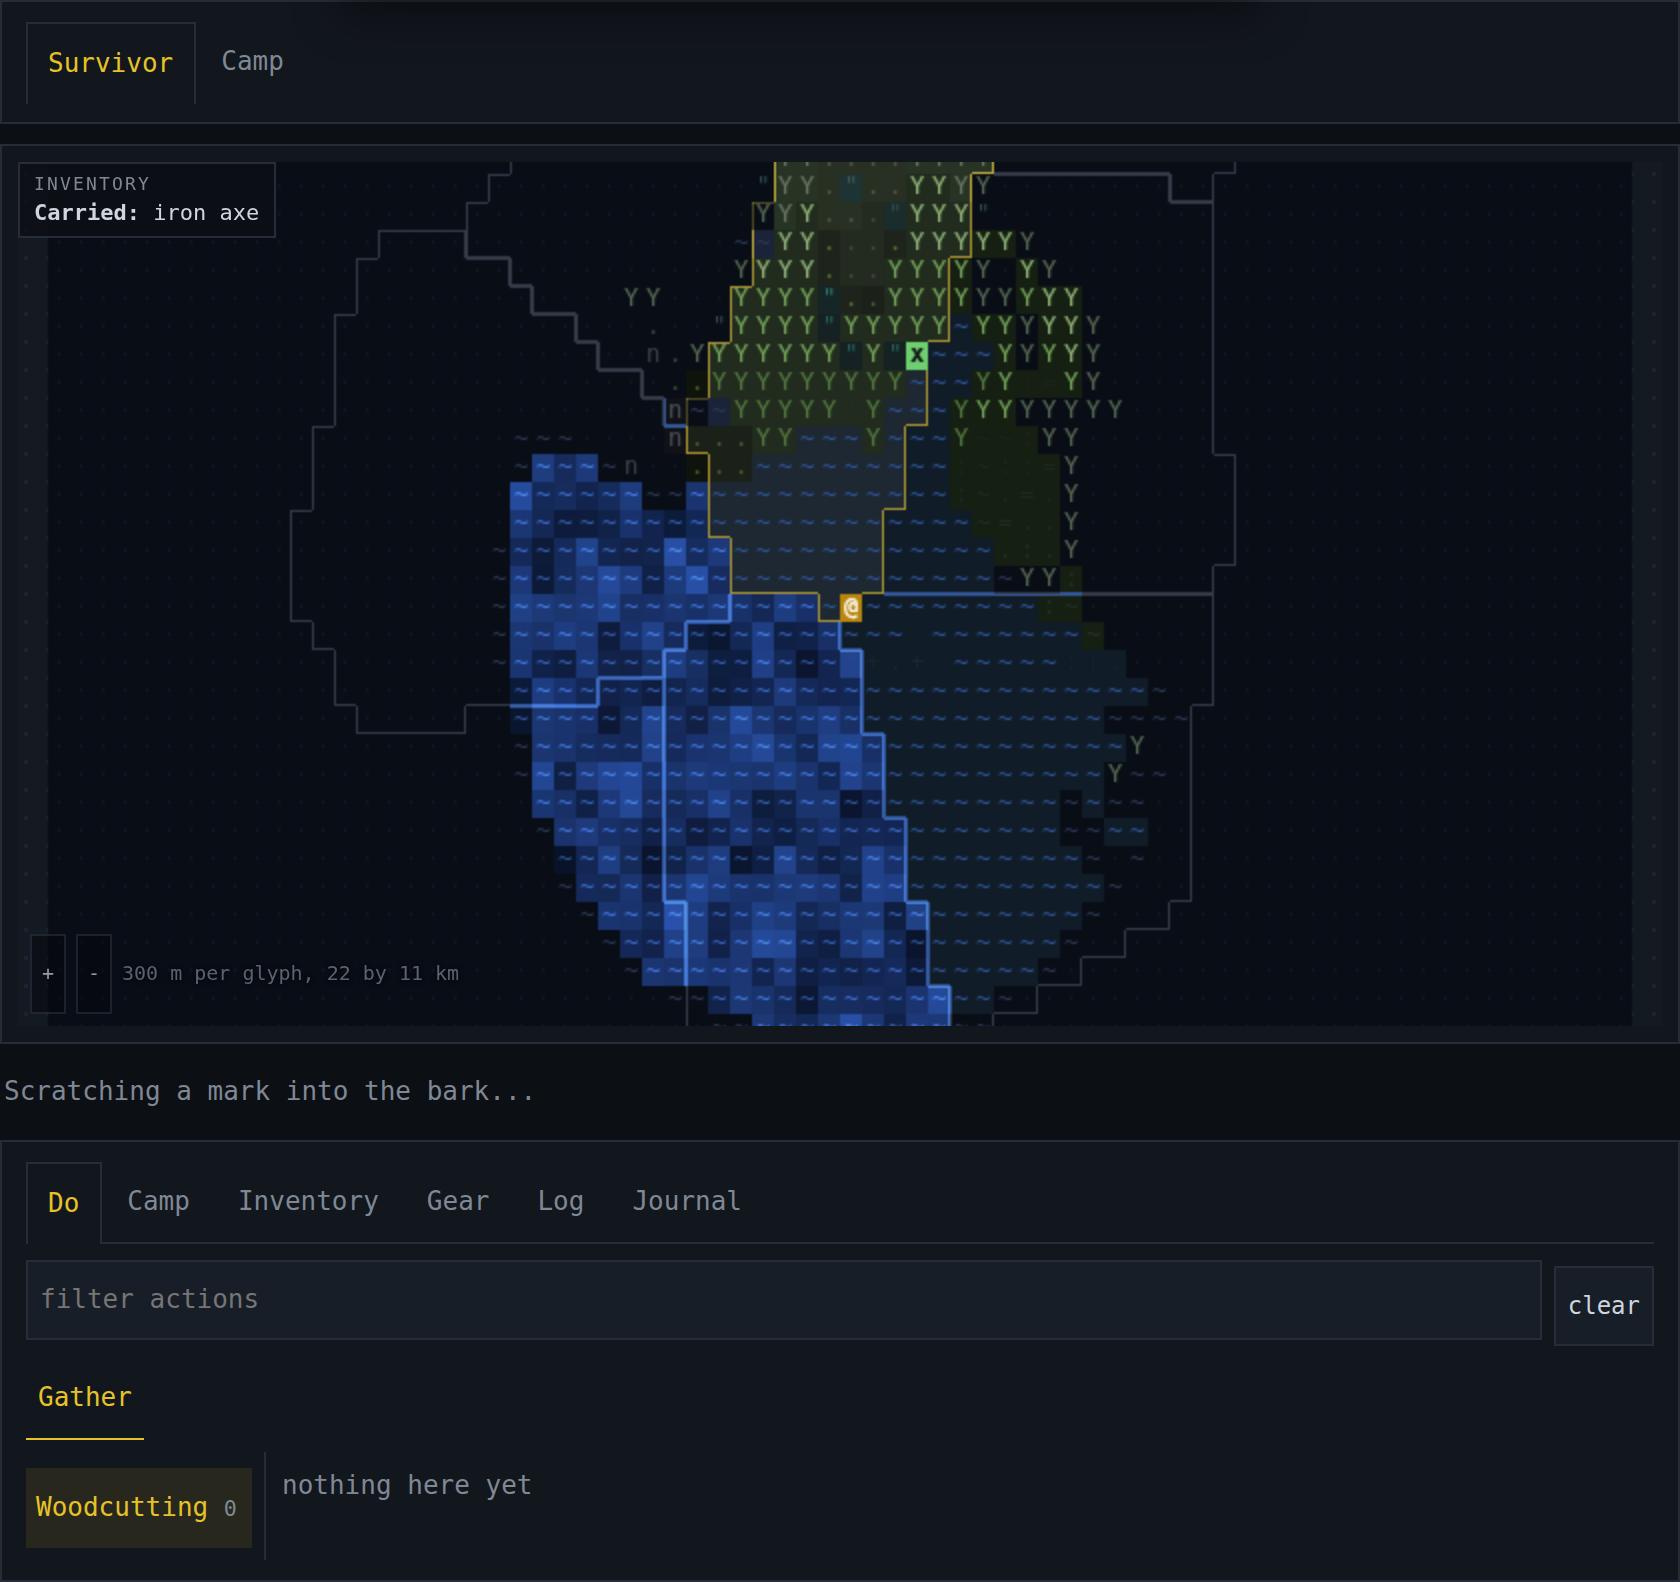
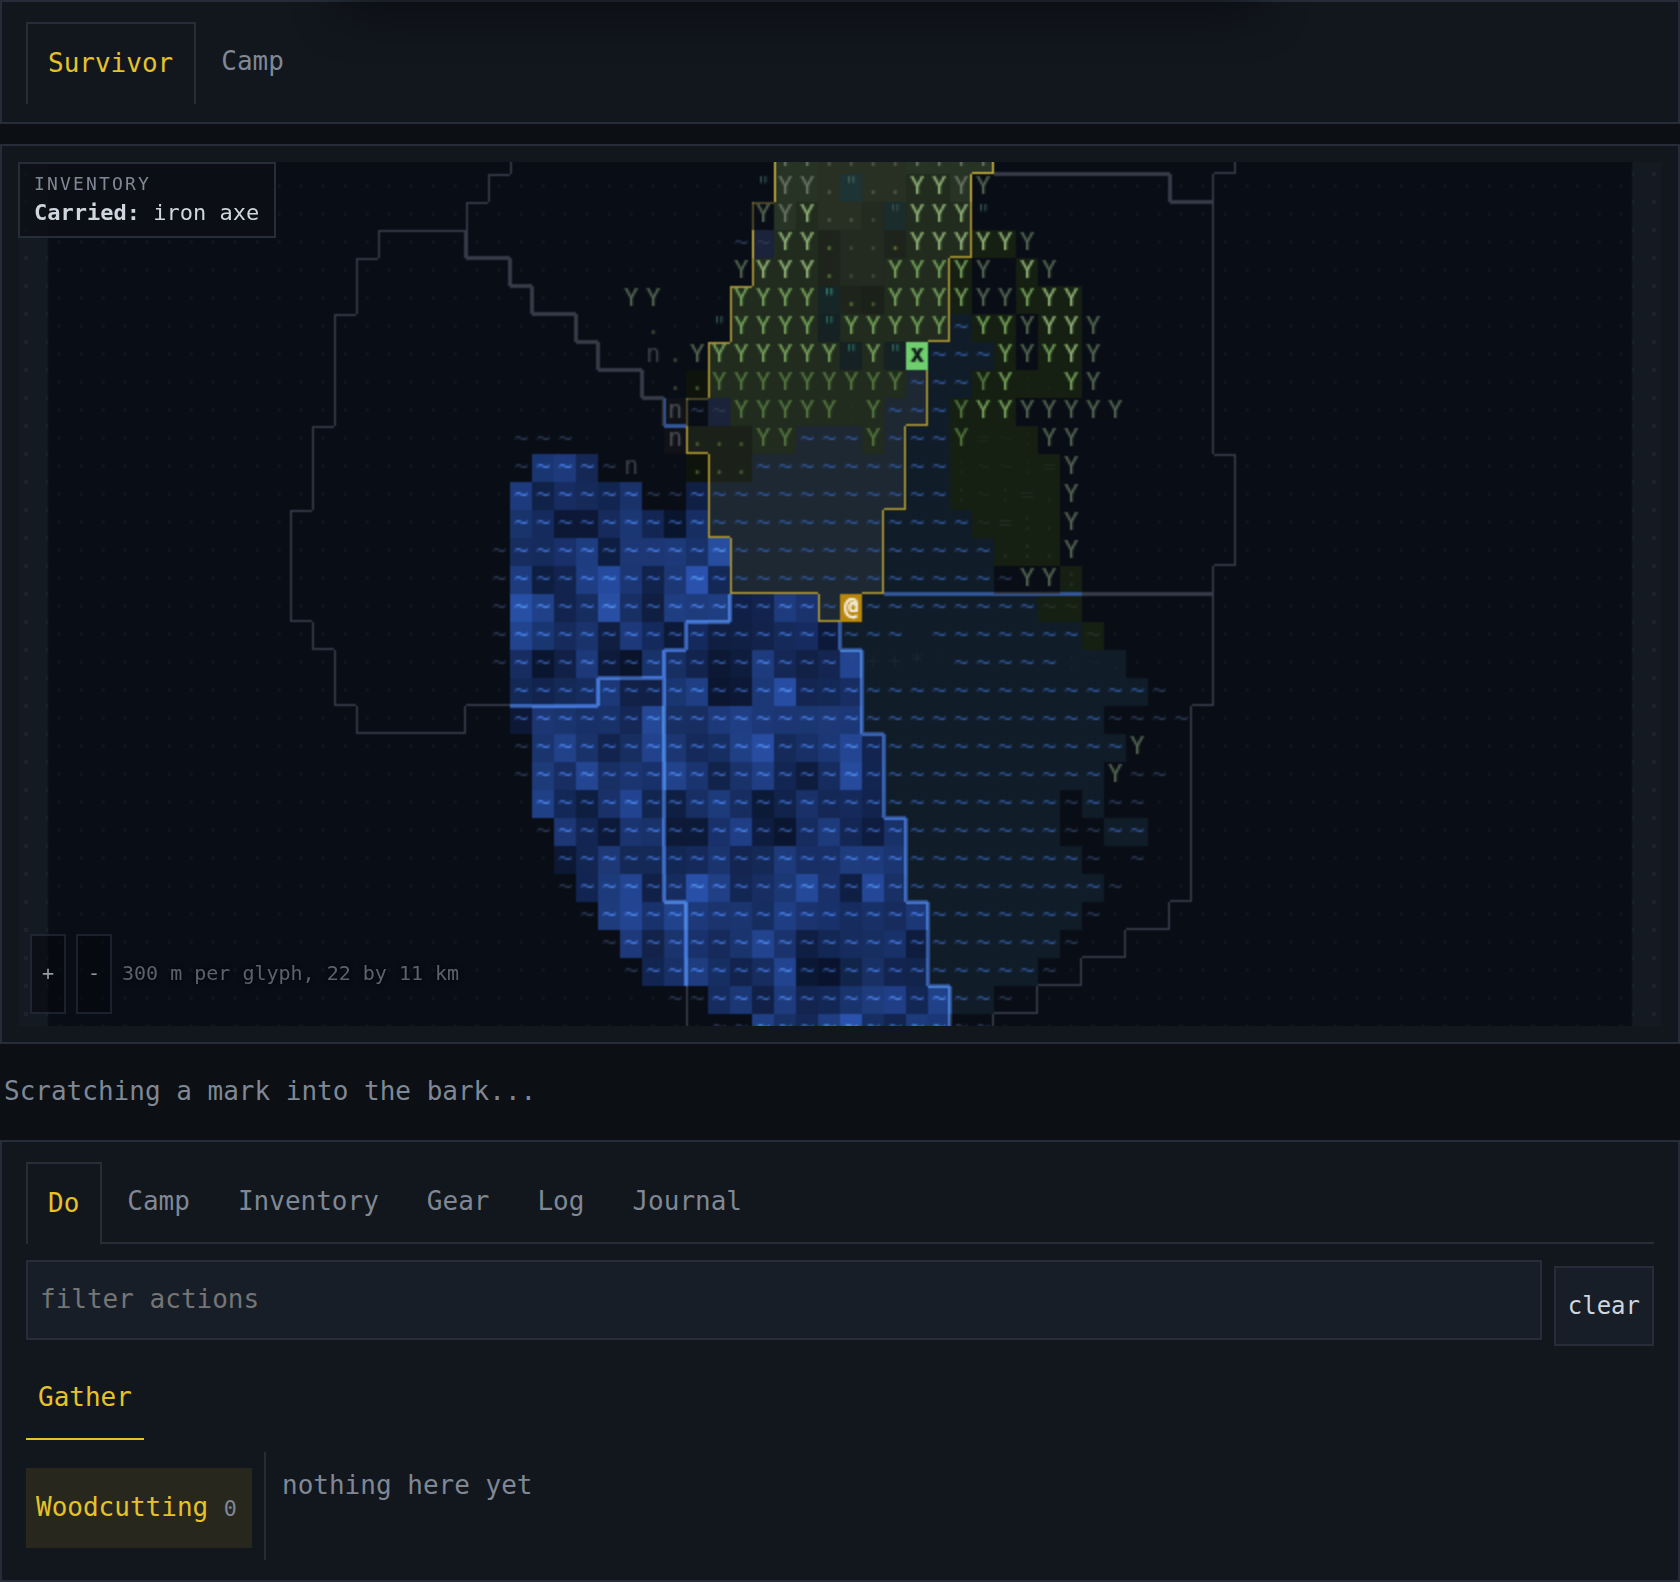
fix(survidle): the camp's name is a caption on the board, not a third tab
The view switch shipped as two buttons with the camp's name beside them, and
that name read as a third tab - which is the tester's "ui is confusing... it
might make sense, but visually it seems to blur together" (playtest
2026-09-19, note 140) earned back in a single change, on the row above the
three levels he was already describing.

So the switch is two buttons and nothing else, and which camp the board is
showing is captioned on the board, under the carried line and in the same
box: both say what the picture in front of you is. The picker, when a
lineage has more than one camp, is on that caption.

Survivor view captions nothing - the board is centred on the person and has
nothing to name.

Fast suite 1415 passing, build and lint clean. docs/view-shots re-taken.

Claude-Session: https://claude.ai/code/session_018hQSmQnAi9mua2n8eCnzyT

Changed region(s): [[0.2786, 0.3097, 0.5571, 0.6504], [0.3095, 0.2788, 0.3714, 0.3097], [0.5262, 0.5575, 0.5571, 0.5885]]

diff --git a/08-survidle/src/ui/view.ts b/08-survidle/src/ui/view.ts
@@ -189,33 +189,40 @@ export function saveView(view: View, storage: Storage = localStorage): void {
 }
 
 /**
- * The switch itself, and the camp it is looking at.
+ * The switch itself: two buttons and nothing else.
  *
- * Camp view names the camp beside the buttons rather than in a separate
- * panel, because which camp is being looked at is the thing most likely to
- * be wrong when the board does not show what the player expected. A lineage
- * with one camp gets the name and no picker; a second camp - founded on
- * purpose or by accident - turns it into a row of choices.
- *
- * With no camp anywhere, the view still switches and says so. A landing has
- * no camp until one is sited, and a button that vanishes in that moment
- * would read as the feature breaking rather than as the camp missing.
+ * Which camp is being looked at used to sit beside them, and read as a third
+ * tab - the tester's "visually it seems to blur together" (playtest
+ * 2026-09-19, note 140), earned in one change. It belongs on the board it
+ * describes, which is `campViewHtml` below.
  */
-export function viewSwitchHtml(state: GameState, world: World, view: View, chosen: number | null): string {
+export function viewSwitchHtml(view: View): string {
   const buttons = VIEWS
     .map((id) => `<button class="tab${id === view ? " on" : ""}" data-act="view" data-view="${id}">${VIEW_WORDS[id]}</button>`)
     .join("");
-  if (view !== "camp") return `<div class="tabs">${buttons}</div>`;
+  return `<div class="tabs">${buttons}</div>`;
+}
+
+/**
+ * The camp the board is showing, written on the board, beside the survivor's
+ * own carried line. Empty in survivor view, so the overlay is not there at
+ * all: the board is centred on the person and has nothing to caption.
+ *
+ * A lineage with one camp gets its name. A second camp - founded on purpose
+ * or by accident - turns it into a row of choices, which is also the answer
+ * to 09-07's notes 223-224. With no camp at all it says so rather than
+ * vanishing, because a landing has none and a caption that disappears reads
+ * as the feature breaking rather than as the camp missing.
+ */
+export function campViewHtml(state: GameState, world: World, view: View, chosen: number | null): string {
+  if (view !== "camp") return "";
   const camps = campRegions(state);
   const looking = viewedCampRegion(state, chosen);
-  if (looking === null) {
-    return `<div class="tabs">${buttons}</div><span class="dim viewcamp">no camp yet - site one and it is here</span>`;
-  }
-  if (camps.length === 1) {
-    return `<div class="tabs">${buttons}</div><span class="viewcamp">${esc(campLabel(world, looking))}</span>`;
-  }
+  const label = `<span class="mapinv-label">camp</span> `;
+  if (looking === null) return `${label}<b>none yet</b> - site one and the board comes here`;
+  if (camps.length === 1) return `${label}<b>${esc(campLabel(world, looking))}</b>`;
   const picker = camps
     .map((id) => `<button class="mini${id === looking ? " on" : ""}" data-act="camp-view" data-region="${id}">${esc(campLabel(world, id))}${id === state.player.region ? " (here)" : ""}</button>`)
     .join("");
-  return `<div class="tabs">${buttons}</div><span class="viewcamp">${picker}</span>`;
+  return `${label}${picker}`;
 }

diff --git a/08-survidle/tests/view.test.ts b/08-survidle/tests/view.test.ts
@@ -12,7 +12,7 @@ import { PURPOSES, SUBTABS } from "../src/ui/purpose";
 import {
   campRegions, DEFAULT_VIEW, loadView, panesInView, purposesInView, purposeView,
   saveView, subtabsInView, toSubtabInView, VIEWS, viewCentre, viewedCampCell,
-  viewedCampRegion, viewSwitchHtml,
+  viewedCampRegion, viewSwitchHtml, campViewHtml,
 } from "../src/ui/view";
 import { siteCamp } from "./siting-helpers";
 
@@ -84,9 +84,12 @@ describe("the camp a camp view is looking at", () => {
     expect(campRegions(state)).toEqual([]);
     expect(viewedCampRegion(state, null)).toBeNull();
     expect(viewedCampCell(state, null)).toBeNull();
-    const html = viewSwitchHtml(state, world, "camp", null);
-    expect(html).toContain('data-act="view"');
-    expect(html).toContain("no camp yet");
+    expect(viewSwitchHtml("camp")).toContain('data-act="view"');
+    // The caption is on the board, and says the camp is missing rather than
+    // disappearing - a landing has none.
+    expect(campViewHtml(state, world, "camp", null)).toContain("none yet");
+    // Survivor view has nothing to caption: the board is centred on the person.
+    expect(campViewHtml(state, world, "survivor", null)).toBe("");
   });
 
   it("takes the one the survivor stands in, and honours a picked one", () => {
@@ -108,9 +111,9 @@ describe("the camp a camp view is looking at", () => {
     const { state, world } = newGame(17);
     const home = state.player.region;
     siteCamp(state, world, home);
-    expect(viewSwitchHtml(state, world, "camp", null)).not.toContain('data-act="camp-view"');
+    expect(campViewHtml(state, world, "camp", null)).not.toContain('data-act="camp-view"');
     siteCamp(state, world, regionAt(world, home).neighbours[0].id);
-    const html = viewSwitchHtml(state, world, "camp", null);
+    const html = campViewHtml(state, world, "camp", null);
     expect(html).toContain('data-act="camp-view"');
     expect(html).toContain("(here)");
   });

diff --git a/08-survidle/src/main.ts b/08-survidle/src/main.ts
@@ -54,7 +54,7 @@ import { catalogPage, opportunityCatalogAction, opportunityCatalogHtml, opportun
 import { opportunityPanelHtml } from "./ui/opportunity-panel";
 import { nextOpportunityPresentation, opportunityModalAction, opportunityModalHtml, opportunityModalKeyboard } from "./ui/opportunity-modal";
 import { loadPanes, PANE_IDS, type PaneId, paneTabsHtml, savePanes, subtabsHtml } from "./ui/panes";
-import { loadView, panesInView, purposesInView, purposeView, saveView, subtabsInView, toSubtabInView, type View, viewSwitchHtml } from "./ui/view";
+import { campViewHtml, loadView, panesInView, purposesInView, purposeView, saveView, subtabsInView, toSubtabInView, type View, viewSwitchHtml } from "./ui/view";
 import { paneForOpportunity, PURPOSES } from "./ui/purpose";
 
 /**
@@ -645,6 +645,7 @@ function render(nowMs = performance.now()) {
   if (ordersEl) ordersEl.hidden = phone && page !== "queue";
   setPanel("camp", campHtml(state, world, cal, ui.rateDisplay));
   setPanel("mapinventory", mapInventoryHtml(state, world, cal, ui.hover));
+  setPanel("mapcamp", campViewHtml(state, world, ui.view, ui.campView));
   setPanel("gear", gearHtml(state, world, cal, feltTemperature(state, world, ambient)));
   setPanel("skills", skillsHtml(state));
   setPanel("opportunities", opportunityPanelHtml(state));
@@ -672,7 +673,7 @@ function render(nowMs = performance.now()) {
   setPanel("task", taskHtml(state, world, cal, ui.hurry));
   setPanel("orders", queueHtml(state, world, cal));
   setPanel("forecast", forecastHtml(forecaster.view(), state));
-  setPanel("viewswitch", viewSwitchHtml(state, world, ui.view, ui.campView));
+  setPanel("viewswitch", viewSwitchHtml(ui.view));
   setPanel("panetabs", paneTabsHtml(ui.panes));
   settlePanes();
   setPanel("dosubs", ui.filter.trim() ? "" : subtabsHtml(ui.panes, subtabCounts(state, world, ui)));

diff --git a/08-survidle/src/style.css b/08-survidle/src/style.css
@@ -101,8 +101,6 @@ body { display: flex; flex-direction: column; height: 100vh; }
    no bottom rule - the panel under it is the board, not a pane body. */
 .viewswitch { display: flex; align-items: baseline; gap: 10px; flex-wrap: wrap; padding: 4px 8px; }
 .viewswitch .tabs { border-bottom: none; margin-bottom: 0; }
-.viewcamp { display: flex; align-items: baseline; gap: 4px; flex-wrap: wrap; color: var(--dim); }
-.viewcamp .mini.on { color: var(--accent); }
 
 .subs { display: flex; gap: 4px; flex-wrap: wrap; margin: 4px 0 6px; }
 .subs:empty { display: none; }
@@ -437,6 +435,29 @@ html.sync-readonly [data-act="settings-open"], html.sync-readonly #settings { po
 #mapinventory .mapinv-label { color: var(--dim); font-size: 9px; letter-spacing: .12em; text-transform: uppercase; }
 #mapinventory b { color: var(--text); }
 #mapinventory:empty { display: none; }
+
+/* The camp caption sits under the carried line, same box, same corner: both
+   say what the board in front of you is showing. Its picker is the one part
+   that takes a click, so the overlay's pointer-events are restored on it. */
+#mapcamp {
+  position: absolute;
+  z-index: 4;
+  top: calc(var(--map-overlay-inset) + 34px);
+  left: var(--map-overlay-inset);
+  max-width: min(360px, calc(50% - 12px));
+  padding: 4px 7px;
+  background: rgba(12, 15, 20, 0.82);
+  border: 1px solid var(--line);
+  font-size: 11px;
+  display: flex;
+  align-items: baseline;
+  gap: 4px;
+  flex-wrap: wrap;
+}
+#mapcamp .mapinv-label { color: var(--dim); font-size: 9px; letter-spacing: .12em; text-transform: uppercase; }
+#mapcamp b { color: var(--text); }
+#mapcamp .mini.on { color: var(--accent); }
+#mapcamp:empty { display: none; }
 
 /* The stocks strip: what the camp holds, what it can hold, and which way
    each is moving, spanning the page above the columns. The same panel

diff --git a/08-survidle/index.html b/08-survidle/index.html
@@ -63,6 +63,9 @@
           <!-- Camp stores stay visible on the map; a non-empty cell under
                the pointer joins them while it is highlighted. -->
           <div id="mapinventory"></div>
+          <!-- Which camp the board is showing, in camp view only: a caption
+               on the thing it describes rather than a third tab above it. -->
+          <div id="mapcamp"></div>
           <!-- One element, in the markup from the start, so it is shown and
                hidden rather than created and destroyed under the pointer. -->
           <div id="maptip" hidden></div>

diff --git a/08-survidle/docs/view-shots/README.md b/08-survidle/docs/view-shots/README.md
@@ -21,8 +21,13 @@ Do pane offers Gather, Hunt and Explore.
 
 The same save, one click later. The board is held on the camp - the green `x`
 in the middle - while the survivor stands at the bottom edge of it, and the
-switch names the camp beside the buttons. The Do pane now offers Camp and
-Build.
+Do pane now offers Camp and Build.
+
+Which camp is being shown is captioned on the board, under the carried line.
+It began beside the two buttons and read as a third tab, which is the
+tester's "visually it seems to blur together" (playtest 2026-09-19, note 140)
+earned in a single change. The switch is two buttons; the caption belongs on
+the thing it describes.
 
 **What this shot also shows, and it is a finding rather than a defect.** The
 pane reads "Fire 0 / nothing here yet". Camp view offers camp work, but most
